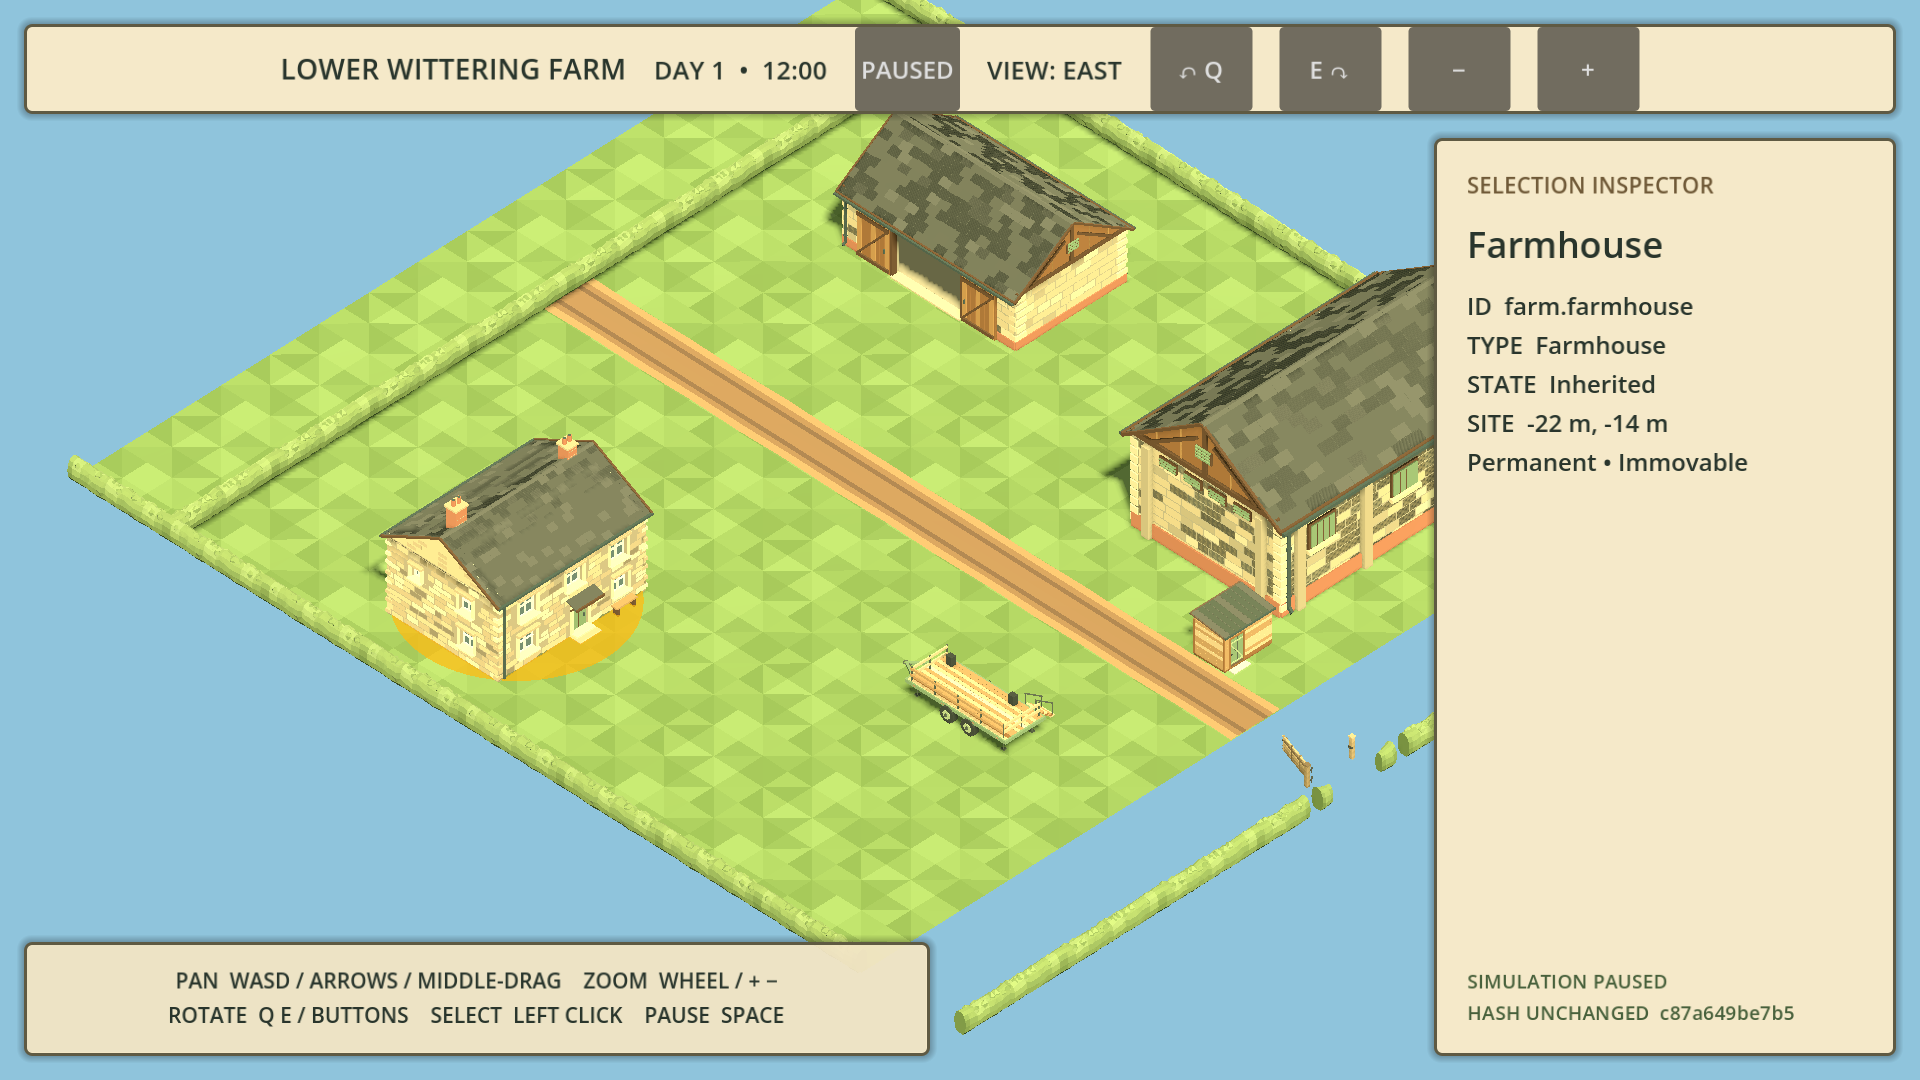
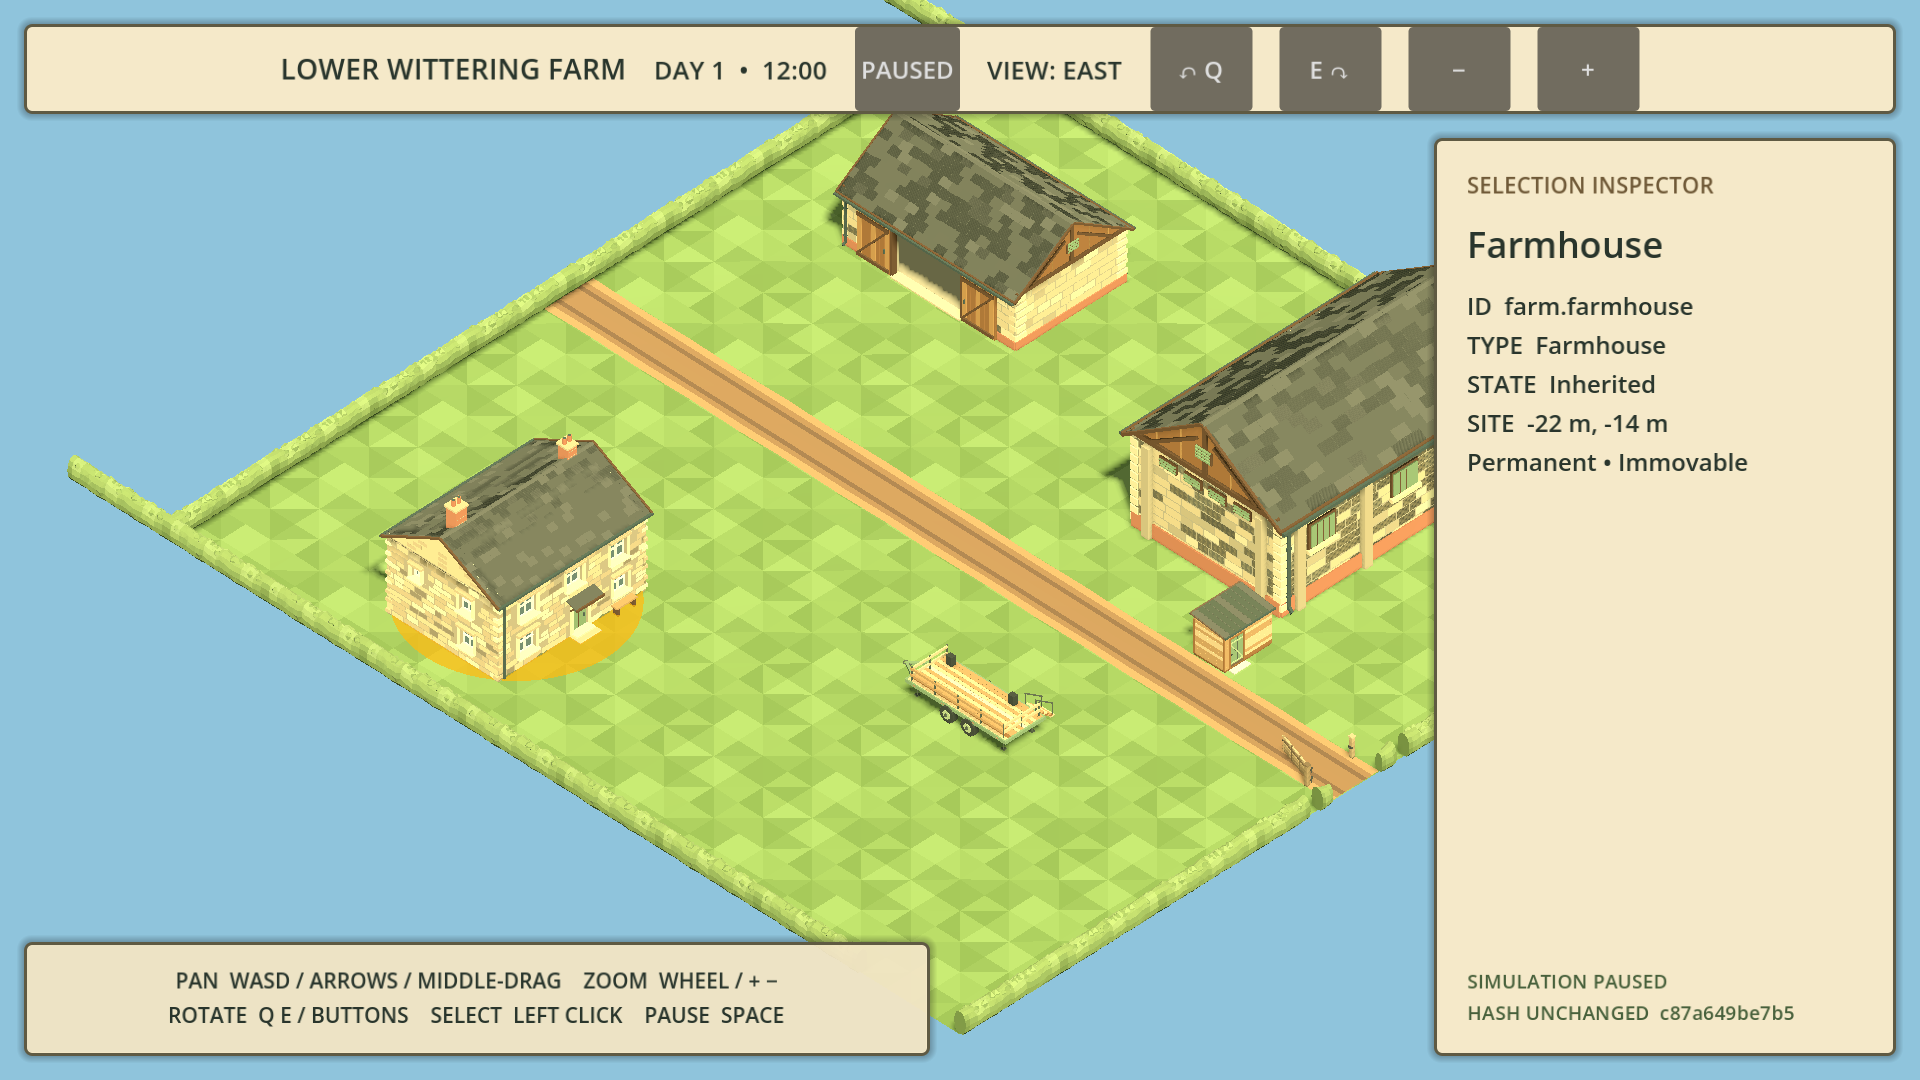
Repair M0.06 scene interaction and bounds

Changed region(s): [[0.0312, 0.0917, 0.4375, 0.4889], [0.4688, 0.5806, 0.75, 0.9472], [0.4062, 0.0, 0.4688, 0.0306]]

diff --git a/game/Main.cs b/game/Main.cs
@@ -13,6 +13,8 @@ public partial class Main : Node
     private const float PanLimit = 24f;
     private readonly Dictionary<ulong, FarmObjectReadModel> _pickRegistry = [];
     private readonly Dictionary<string, Node3D> _visualRegistry = new(StringComparer.Ordinal);
+    private readonly List<Node3D> _grassVisuals = [];
+    private readonly List<Node3D> _trackVisuals = [];
     private Camera3D _camera = null!;
     private Vector3 _focus = Vector3.Zero;
     private int _orientation;
@@ -25,6 +27,7 @@ public partial class Main : Node
     private GameSession _session = null!;
     private string _pausedHash = "";
     private bool _middleDragging;
+    private Node3D _gateLeafCollider = null!;
     private int _captureFrame;
     private string? _captureDirectory;
     private static readonly string[] OrientationNames = ["South", "West", "North", "East"];
@@ -48,6 +51,7 @@ public partial class Main : Node
 
     public override void _Process(double delta)
     {
+        if (_middleDragging && !Input.IsMouseButtonPressed(MouseButton.Middle)) _middleDragging = false;
         var input = Vector2.Zero;
         if (Input.IsKeyPressed(Key.W) || Input.IsKeyPressed(Key.Up)) input.Y -= 1;
         if (Input.IsKeyPressed(Key.S) || Input.IsKeyPressed(Key.Down)) input.Y += 1;
@@ -56,6 +60,13 @@ public partial class Main : Node
         if (input.LengthSquared() > 0) Pan(input.Normalized() * (float)delta * 18f);
         UpdateHashStatus();
         if (_captureDirectory is not null) ProcessCapture();
+    }
+
+    public override void _Input(InputEvent inputEvent)
+    {
+        // Release must be observed before a HUD Control consumes the mouse event.
+        if (inputEvent is InputEventMouseButton { ButtonIndex: MouseButton.Middle, Pressed: false })
+            _middleDragging = false;
     }
 
     public override void _UnhandledInput(InputEvent inputEvent)
@@ -119,15 +130,20 @@ public partial class Main : Node
     {
         for (var x = -4; x < 4; x++)
         for (var z = -4; z < 4; z++)
-            AddAsset("res://assets/environment/lwf_field_grass_tile_8m_v1.glb", new Vector3(x * 8, 0, z * 8));
+        {
+            // Imported bounds are local X 0..8, Z -8..0. The +8 Z origin offset
+            // therefore covers world -32..32 instead of leaving the north edge bare.
+            _grassVisuals.Add(AddAsset("res://assets/environment/lwf_field_grass_tile_8m_v1.glb", new Vector3(x * 8, 0, (z + 1) * 8)));
+        }
     }
 
     private void BuildTrack()
     {
-        for (var z = -3; z < 4; z++)
+        for (var z = -3; z <= 4; z++)
         {
             var track = AddAsset("res://assets/environment/lwf_vehicle_track_straight_8x4m_v1.glb", new Vector3(0, 0.052f, z * 8));
             track.RotationDegrees = new Vector3(0, 90, 0);
+            _trackVisuals.Add(track);
         }
     }
 
@@ -166,8 +182,20 @@ public partial class Main : Node
         body.AddChild(InstantiateAsset(path));
         if (item.Kind == FarmObjectKind.Gate)
         {
+            _gateLeafCollider = new StaticBody3D
+            {
+                Position = new Vector3(-1.65f, 0, 0),
+                RotationDegrees = new Vector3(0, 72, 0),
+            };
+            body.AddChild(_gateLeafCollider);
             var leaf = InstantiateAsset("res://assets/environment/lwf_farm_gate_leaf_v1.glb");
-            leaf.Position = new Vector3(-1.65f, 0, 0); leaf.RotationDegrees = new Vector3(0, 72, 0); body.AddChild(leaf);
+            _gateLeafCollider.AddChild(leaf);
+            _gateLeafCollider.AddChild(new CollisionShape3D
+            {
+                Position = new Vector3(1.695f, 0.79f, 0.08f),
+                Shape = new BoxShape3D { Size = new Vector3(3.5f, 1.1f, 0.36f) },
+            });
+            _pickRegistry.Add(_gateLeafCollider.GetInstanceId(), item);
         }
         body.AddChild(new CollisionShape3D
         {
@@ -345,11 +373,15 @@ public partial class Main : Node
         foreach (var id in new[] { "farm.farmhouse", "farm.main-gate", "farm.service-point" })
         {
             var visual = _visualRegistry[id];
-            Pick(_camera.UnprojectPosition(visual.GlobalPosition + new Vector3(0, 1, 0)));
+            var pickTarget = id == "farm.main-gate"
+                ? _gateLeafCollider.ToGlobal(new Vector3(1.695f, 0.79f, 0.08f))
+                : visual.GlobalPosition + new Vector3(0, 1, 0);
+            Pick(_camera.UnprojectPosition(pickTarget));
             var resolved = _selected?.StableId;
             var correct = resolved == id;
             passed &= correct;
-            lines.Add($"pick expected={id} resolved={resolved ?? "none"} correct={correct}");
+            var target = id == "farm.main-gate" ? "visible-open-leaf" : "visible-object";
+            lines.Add($"pick target={target} expected={id} resolved={resolved ?? "none"} correct={correct}");
         }
 
         Pick(new Vector2(2, GetWindow().Size.Y - 2));
@@ -374,11 +406,42 @@ public partial class Main : Node
         passed &= minBounded && maxBounded && panBounded;
         lines.Add($"zoom_min_bounded={minBounded} zoom_max_bounded={maxBounded} pan_bounded={panBounded}");
 
+        var grassBounds = GetCombinedMeshBounds(_grassVisuals);
+        var trackBounds = GetCombinedMeshBounds(_trackVisuals);
+        var grassSupportsBoundary = grassBounds.Position.X <= -31.9f && grassBounds.End.X >= 31.9f &&
+            grassBounds.Position.Z <= -31.9f && grassBounds.End.Z >= 31.9f;
+        var trackReachesGate = trackBounds.Position.Z <= -31.9f && trackBounds.End.Z >= 31.9f &&
+            trackBounds.Position.X <= 0 && trackBounds.End.X >= 0;
+        passed &= grassSupportsBoundary && trackReachesGate;
+        lines.Add($"grass_bounds_x={grassBounds.Position.X:0.###}..{grassBounds.End.X:0.###} grass_bounds_z={grassBounds.Position.Z:0.###}..{grassBounds.End.Z:0.###} supports_boundary={grassSupportsBoundary}");
+        lines.Add($"track_bounds_z={trackBounds.Position.Z:0.###}..{trackBounds.End.Z:0.###} reaches_gate_z30={trackReachesGate}");
+
+        _middleDragging = true;
+        _Input(new InputEventMouseButton { ButtonIndex = MouseButton.Middle, Pressed = false });
+        var middleReleaseCleared = !_middleDragging;
+        passed &= middleReleaseCleared;
+        lines.Add($"middle_release_before_gui_clears_drag={middleReleaseCleared}");
+
         var currentHash = _session.CaptureSnapshot().AuthoritativeHash;
         var hashUnchanged = currentHash == _pausedHash && _session.IsPaused;
         passed &= hashUnchanged;
         lines.Add($"paused={_session.IsPaused} hash_before={_pausedHash} hash_after={currentHash} unchanged={hashUnchanged}");
         lines.Insert(0, $"M0.06 exported-runtime verification passed={passed} resolution={GetWindow().Size}");
         return (passed, string.Join(System.Environment.NewLine, lines) + System.Environment.NewLine);
+    }
+
+    private static Aabb GetCombinedMeshBounds(IEnumerable<Node3D> roots)
+    {
+        var hasBounds = false;
+        var combined = new Aabb();
+        foreach (var root in roots)
+        foreach (var child in root.FindChildren("*", "MeshInstance3D", true, false))
+        {
+            if (child is not MeshInstance3D mesh || mesh.Mesh is null) continue;
+            var worldBounds = mesh.GlobalTransform * mesh.GetAabb();
+            combined = hasBounds ? combined.Merge(worldBounds) : worldBounds;
+            hasBounds = true;
+        }
+        return combined;
     }
 }

diff --git a/briefs/results/M0.06.md b/briefs/results/M0.06.md
@@ -1,6 +1,6 @@
 # M0.06 result — Farm scene, camera and persistent overlay
 
-Status: Implemented—verification pending on 14 September 2026. Implemented and self-verified by Codex on Windows x64; independent review remains required before Accepted.
+Status: Implemented—verification pending on 14 September 2026. Implemented and self-verified by Codex on Windows x64; three blocking findings from the first independent Astra review were repaired, and independent re-review remains required before Accepted.
 
 ## Implemented boundary
 
@@ -44,7 +44,7 @@ Run from `C:\Projects\festival-tycoon`:
 .\tools\run-deterministic-fixture.ps1 -Configuration Debug
 .\tools\run-content-catalogue.ps1 -Configuration Debug
 .\tools\run-atomic-purchase.ps1 -Configuration Debug
-.\tools\run-save-roundtrip.ps1 -Configuration Debug -Slot m006_regression
+.\tools\run-save-roundtrip.ps1 -Configuration Debug -Slot m006_repair_regression
 ```
 
 Observed final results:
@@ -57,15 +57,18 @@ Observed final results:
 - Exported Windows runtime: Godot 4.7.2, OpenGL 3.3 compatibility renderer, NVIDIA GeForce RTX 3050 Ti Laptop GPU. Both resolution runs reported `passed=True`.
 - M0.01 smoke, M0.02 deterministic fixture, M0.03 catalogue, M0.04 atomic purchase and M0.05 save roundtrip demonstrations all exited 0 with their accepted invariants intact.
 
-The exported runtime verification at both resolutions recorded:
+The exported runtime verification at both resolutions recorded after the first review repair:
 
 ```text
-pick expected=farm.farmhouse resolved=farm.farmhouse correct=True
-pick expected=farm.main-gate resolved=farm.main-gate correct=True
-pick expected=farm.service-point resolved=farm.service-point correct=True
+pick target=visible-object expected=farm.farmhouse resolved=farm.farmhouse correct=True
+pick target=visible-open-leaf expected=farm.main-gate resolved=farm.main-gate correct=True
+pick target=visible-object expected=farm.service-point resolved=farm.service-point correct=True
 empty_selection_cleared=True
 selection_retained_four_rotations=True id=farm.farmhouse
 zoom_min_bounded=True zoom_max_bounded=True pan_bounded=True
+grass_bounds_x=-32..32 grass_bounds_z=-32..32 supports_boundary=True
+track_bounds_z=-32..32 reaches_gate_z30=True
+middle_release_before_gui_clears_drag=True
 paused=True hash_before=c87a649be7b5... hash_after=c87a649be7b5... unchanged=True
 ```
 
@@ -83,6 +86,17 @@ Full records: [1280x720 verification](M0.06-screenshots/verification-1280x720.tx
 The equivalent four [1280x720 screenshots](M0.06-screenshots) are also committed. Codex visually inspected all four 1920x1080 orientations and the 1280x720 South view. Orientation labels match the rendered camera, the selected Farmhouse inspector retains ID `farm.farmhouse`, the amber highlight remains visible from every side, all six fixtures remain readable/selectable, the gate is open, and the cream HUD remains legible without clipped essential controls at both target resolutions.
 
 The screenshots are captured from the exported Windows application, not review renders or the editor. Capture timing deliberately waits eight rendered frames between quarter-turns.
+
+## Independent review repair round 1
+
+The first Astra review found three blocking presentation defects in commit `e1e8f80`. The follow-up repair:
+
+- accounts for the imported grass tile's corner origin and Godot-local bounds of X 0..8, Z -8..0, offsetting tile origins so actual combined grass mesh bounds cover X/Z -32..32 beneath the entire canonical boundary;
+- adds the eighth rotated track module, extending its actual combined Z bounds from -32 through 32 so it reaches and passes beneath the open gate at canonical Z 30;
+- places the 72-degree gate leaf visual under a matching child `StaticBody3D` with an aligned leaf box, registers that collider to the same `farm.main-gate` read-model object as the posts, and changes the runtime check to ray-pick the visible leaf centre; and
+- observes middle-button release in `_Input` before GUI consumption, plus a defensive current-button check in `_Process`, preventing drag from latching when release occurs over the HUD.
+
+Both exported-resolution runs now inspect real combined mesh bounds, visible-leaf ray resolution and the pre-GUI release path. All eight screenshots and both text records were regenerated after repair and visually inspected; no blue void remains inside the hedge boundary or beneath the gate/track. Authoritative scenario positions and approved source art were unchanged.
 
 ## Demonstration route
 

diff --git a/briefs/PROGRESS.md b/briefs/PROGRESS.md
@@ -9,7 +9,7 @@ Implementation began 7 September 2026. Update rows only when work actually occur
 | M0.03 | Accepted | [Versioned content schema, validation, canonical hash, fixtures, tests and independent review](results/M0.03.md) | None |
 | M0.04 | Accepted | [Atomic purchase, balanced ledger, stock accounting, idempotency tests and independent review](results/M0.04.md) | None |
 | M0.05 | Accepted | [Versioned gzip saves, complete DTO mapping, checksum, migration gate, atomic replacement, backup, recovery tests and independent review](results/M0.05.md) | None |
-| M0.06 | Implemented—verification pending | [Fixed Lower Wittering Farm scene/read model, approved art integration, stable-ID picking, four-view camera, persistent HUD, Windows screenshots and automated/runtime evidence](results/M0.06.md) | Independent review; manual pointer-feel QA unavailable on this host |
+| M0.06 | Implemented—verification pending | [Fixed Lower Wittering Farm scene/read model, approved art integration, stable-ID picking, four-view camera, persistent HUD, Windows screenshots, automated/runtime evidence and first review repairs](results/M0.06.md) | Independent re-review; manual pointer-feel QA unavailable on this host |
 | M0.07 | Not started | None | All |
 | M0.08 | Not started | None | All |
 | M0.09 | Not started | None | All |
